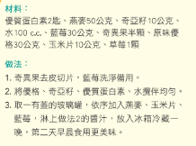
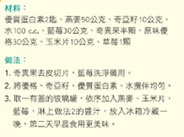
修改

diff --git a/Amway/20180820/index.html b/Amway/20180820/index.html
@@ -89,7 +89,7 @@
 	                        </div>
 	                        <div class="col-md-5 col-md-offset-1 col-sm-12 example">
 	                        	<img class="lab" src="img/no.png">
-	                        	<div class="no"><img src="img/02.png"></div>
+	                        	<div class="no"><img src="img/02.jpg"></div>
 	                        </div>
                     	</div>
                         <p>&nbsp;</p>

diff --git a/Amway/20180820/css/styles.css b/Amway/20180820/css/styles.css
@@ -146,6 +146,7 @@ ol {
 	background: #fff;
 	padding: 5px;
 	margin:0 auto;
+    font-size: .9em;
 }
 
 .example .lab{
